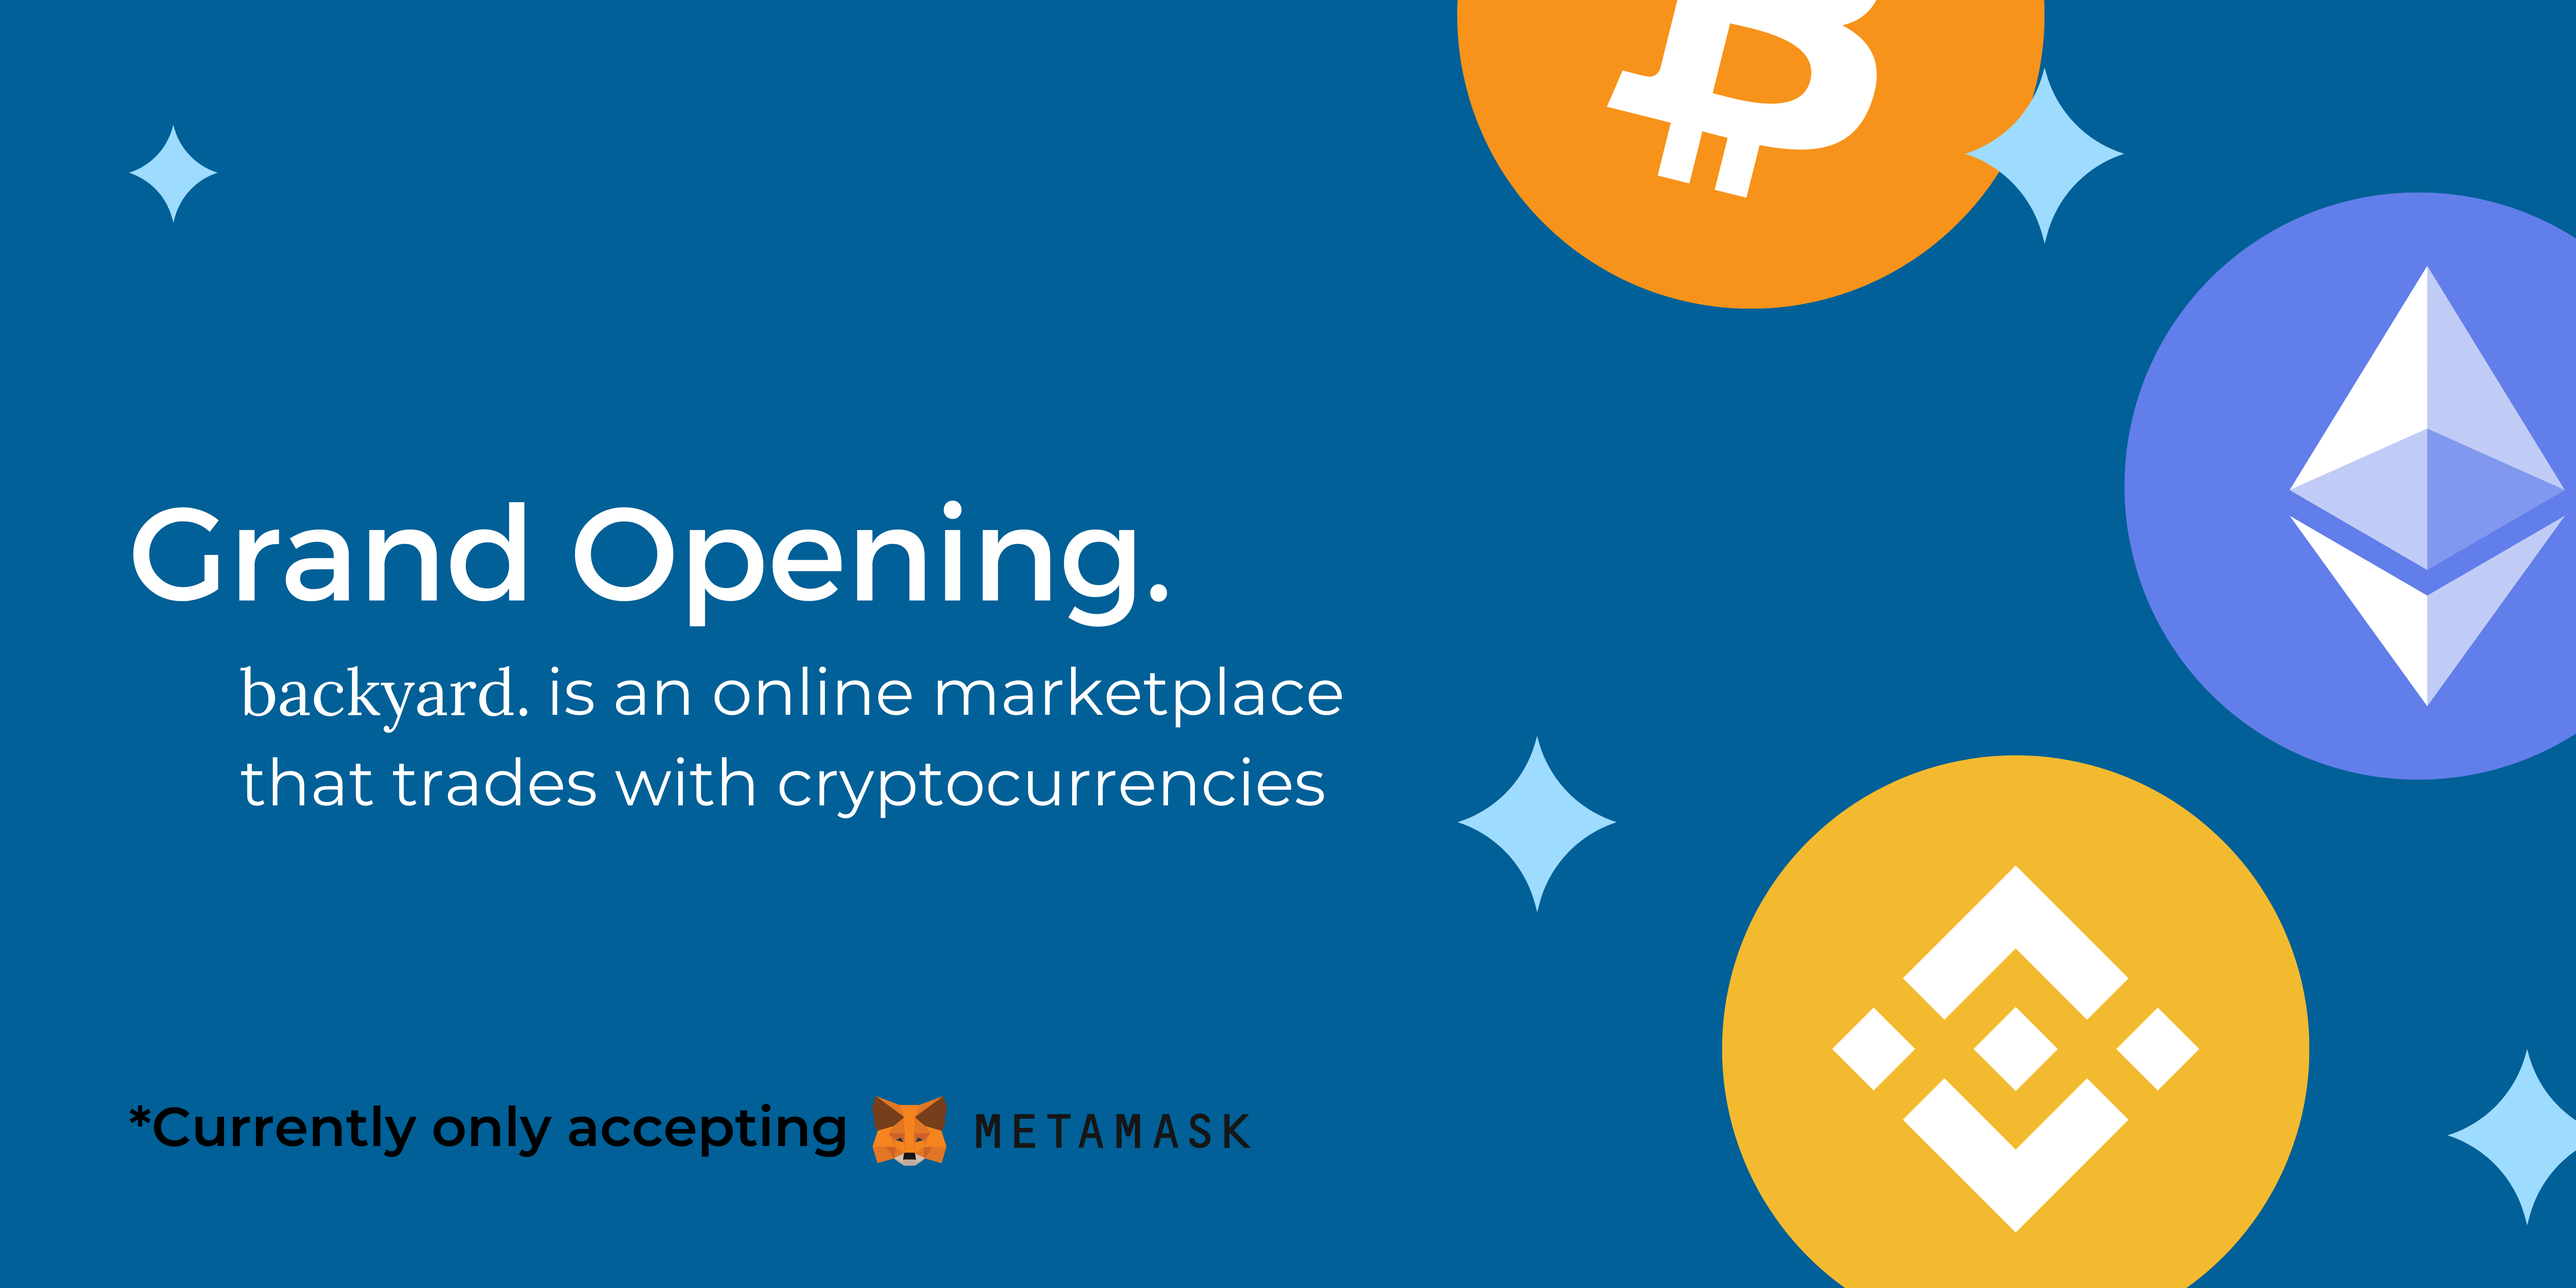
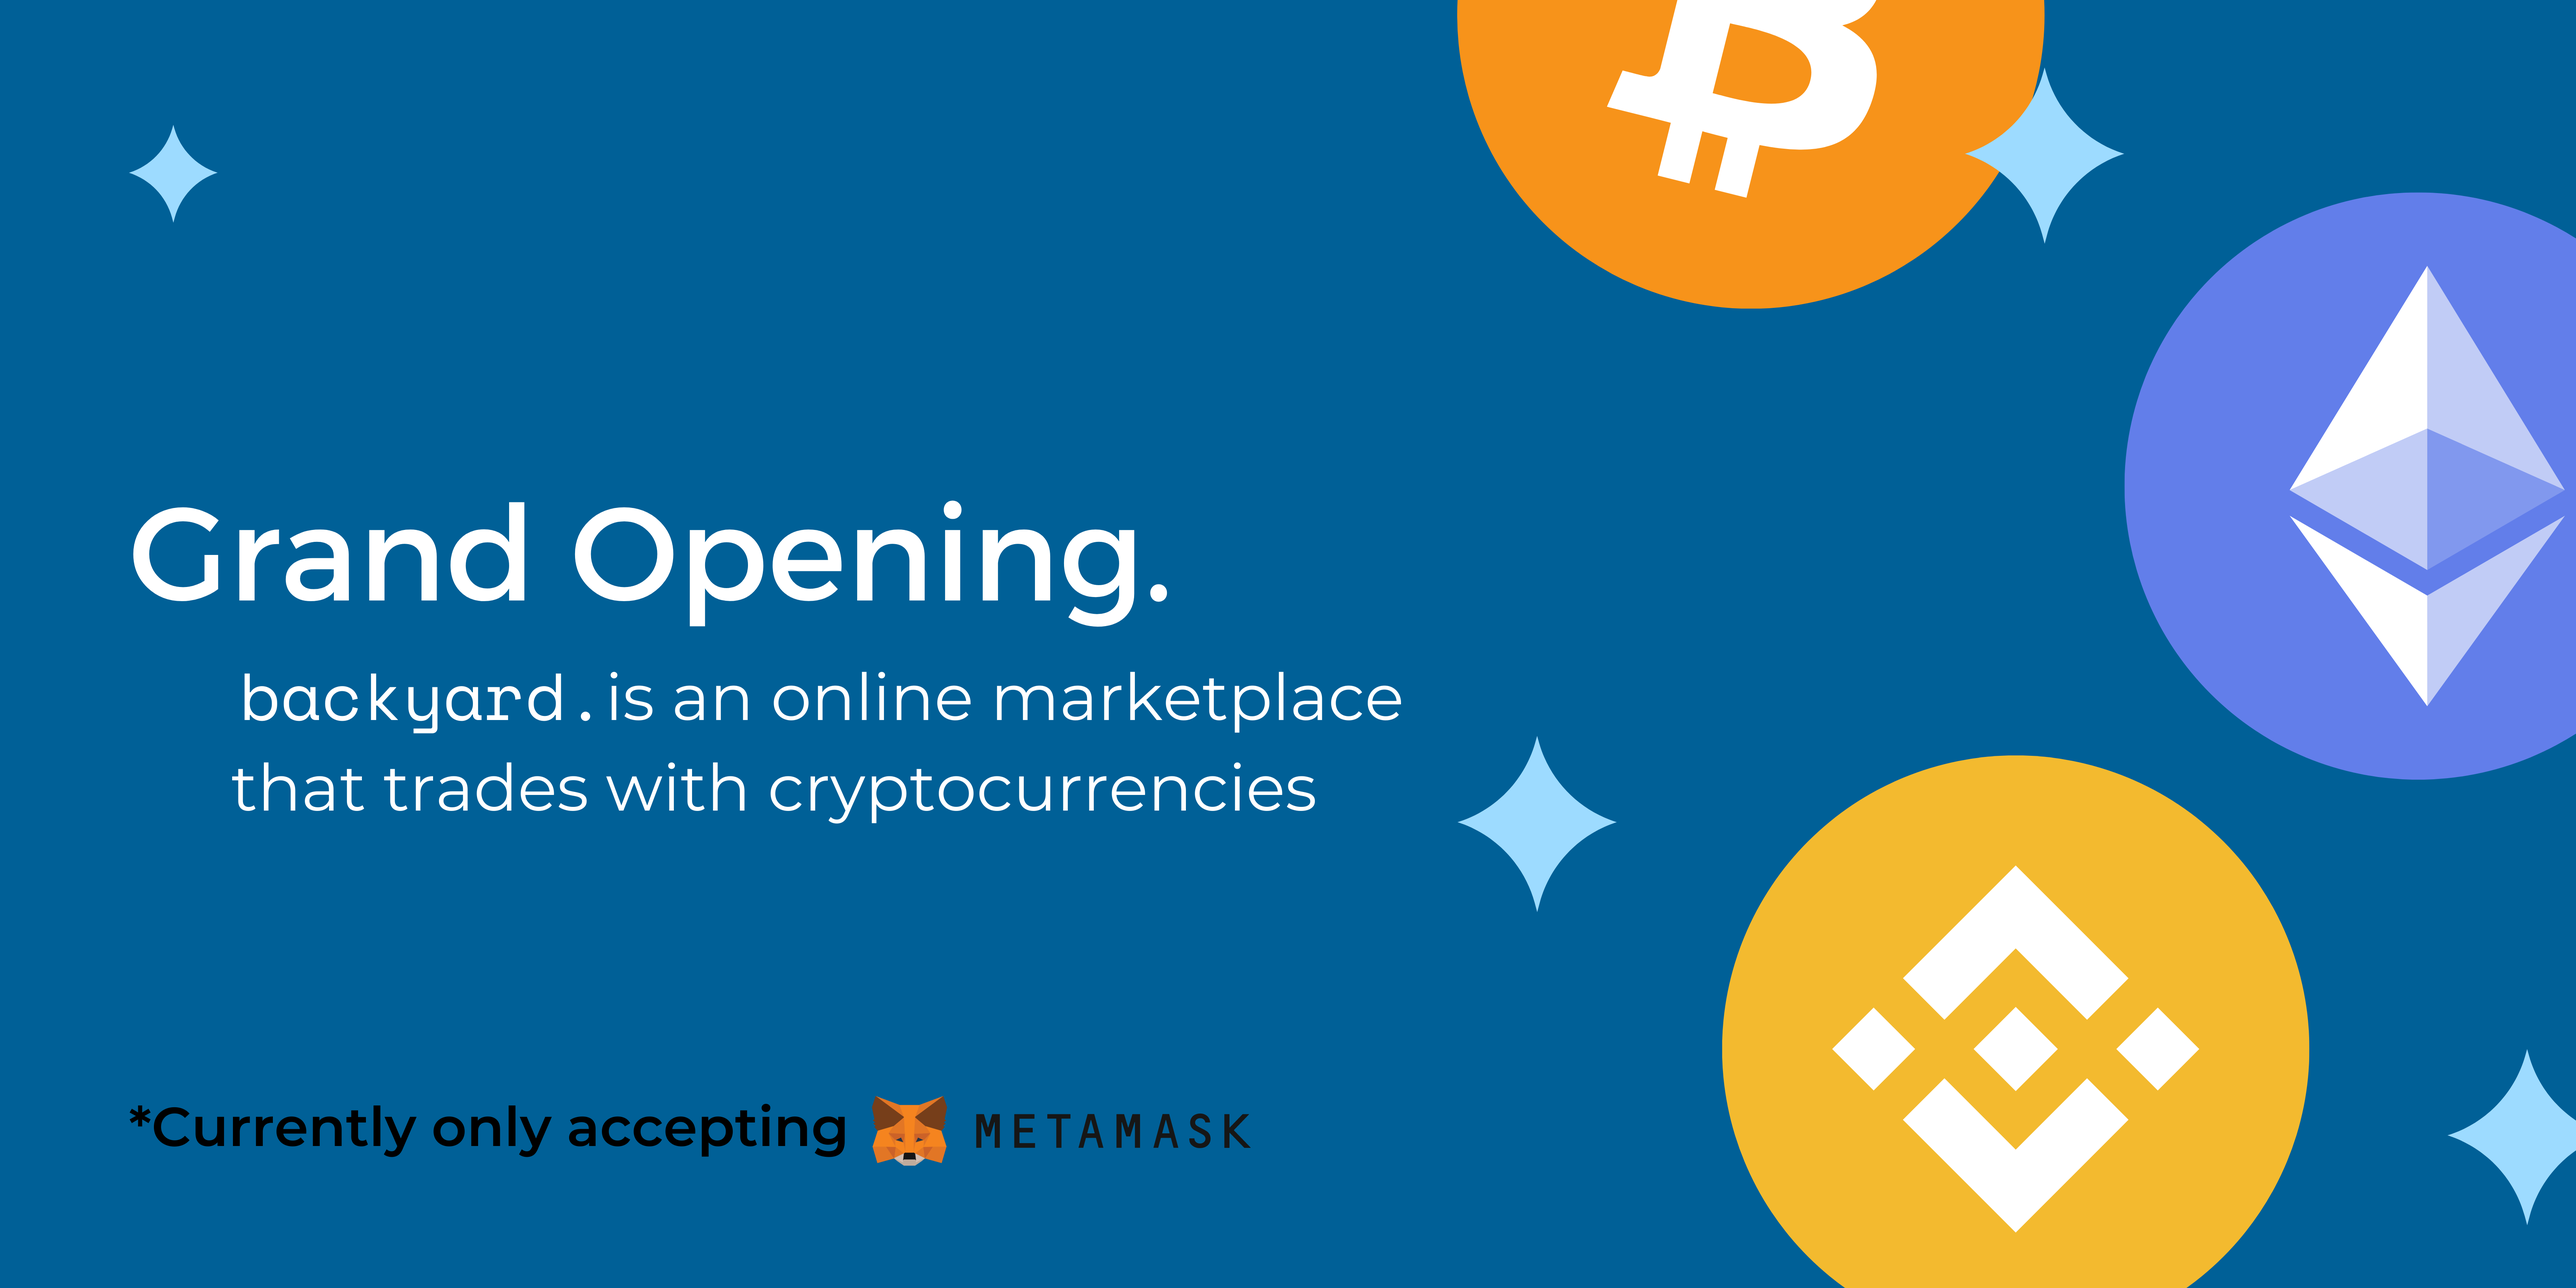
changed theme

Changed region(s): [[0.0938, 0.5938, 0.5312, 0.6562], [0.0938, 0.5312, 0.5625, 0.5625]]

diff --git a/tailwind.config.js b/tailwind.config.js
@@ -6,15 +6,20 @@ module.exports = {
         lightblack: '#0D0D0D',
         lightgrey: '#F3F3F3',
         forestgreen: '#0B1C03',
-        lightorange: '#F3BA2F',
-        // lightorange: '#F5AA5B',
-        sand: '#F4F2EC',
+        // lightorange: '#F3BA2F',
+        lightorange: '#F5AA5B',
+        // sand: '#F4F2EC',
+        sand: '#FFFFFF',
+        mblue: '#006097',
+        footerbg: '#262626',
       },
       fontFamily: {
-        Lato: ['Lato', 'sans-serif'],
-        Lora: ['Lora', 'serif'],
-        Montserrat: ['Montserrat', 'sans-serif'],
-        OpenSans: ['Open Sans', 'sans-serif'],
+        // Lato: ['Lato', 'sans-serif'],
+        // Lora: ['Lora', 'serif'],
+        // Montserrat: ['Montserrat', 'sans-serif'],
+        Montserrat: ['Open Sans', 'sans-serif'],
+        Lora: ['Montserrat', 'sans-serif'],
+        LogoFont: ['Space Grotesk', 'sans-serif'],
       },
     },
   },

diff --git a/components/footer.tsx b/components/footer.tsx
@@ -1,10 +1,10 @@
 import 'tailwindcss/tailwind.css'
 
 const Footer = () => {
-    let footnote = " © Copyright " + new Date().getFullYear() + ", backyard";
+    let footnote = " © Copyright " + new Date().getFullYear();
     return (
-    <footer className='font-Montserrat text-white h-10 bg-forestgreen border-t-2 border-gray-300 flex flex-col items-center text-center py-1.5' >
-        <p>{footnote}</p>
+    <footer className='font-Montserrat text-white h-10 bg-footerbg border-t-2 border-gray-300 flex flex-col items-center text-center py-1.5' >
+        <p>{footnote}<span className="font-LogoFont">, backyard.</span></p>
     </footer>
         )
 };

diff --git a/styles/globals.css b/styles/globals.css
@@ -1,6 +1,6 @@
-@import url('https://fonts.googleapis.com/css2?family=Righteous&display=swap');
-@import url('https://fonts.googleapis.com/css2?family=Bebas+Neue&display=swap');
 @import url('https://fonts.googleapis.com/css2?family=Lato&family=Lora:wght@500&family=Montserrat&family=Open+Sans&display=swap');
+@import url('https://fonts.googleapis.com/css2?family=Space+Grotesk&display=swap');
+
 @tailwind base;
 @tailwind components;
 @tailwind utilities;

diff --git a/components/header.tsx b/components/header.tsx
@@ -48,7 +48,7 @@ const Header = () => {
       <div className=" float-left mr-10">
         <Link href="/">
           <a>
-            <h1 className='font-Lora text-4xl text-forestgreen mr-96'>backyard.</h1>
+            <h1 className='font-LogoFont font-semibold tracking-wider text-4xl text-mblue mr-96'>backyard.</h1>
 
           </a>
         </Link>
